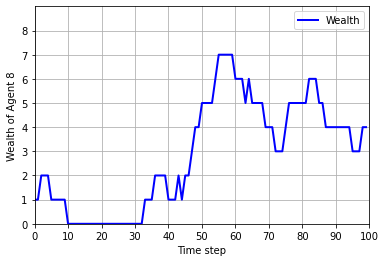
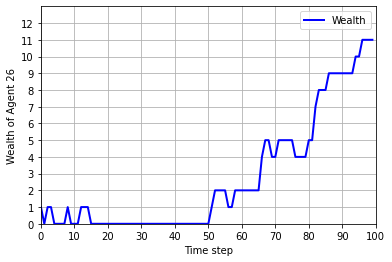
Update documentation

diff --git a/searchindex.js b/searchindex.js
@@ -1,1 +1,1 @@
-Search.setIndex({docnames:["docs/agent","docs/installation","docs/intro","docs/jupyter","docs/math","docs/ode","docs/pandas","docs/project","docs/python","docs/references"],envversion:{"sphinx.domains.c":2,"sphinx.domains.changeset":1,"sphinx.domains.citation":1,"sphinx.domains.cpp":3,"sphinx.domains.index":1,"sphinx.domains.javascript":2,"sphinx.domains.math":2,"sphinx.domains.python":2,"sphinx.domains.rst":2,"sphinx.domains.std":2,"sphinx.ext.intersphinx":1,"sphinxcontrib.bibtex":7,sphinx:56},filenames:["docs/agent.ipynb","docs/installation.md","docs/intro.md","docs/jupyter.ipynb","docs/math.md","docs/ode.ipynb","docs/pandas.ipynb","docs/project.md","docs/python.ipynb","docs/references.md"],objects:{},objnames:{},objtypes:{},terms:{"0000":0,"000000":6,"0001":5,"0002":8,"00233":9,"0630":[],"0882":[],"0996":8,"0d08f825e7a6":[],"100":[0,5,8],"1000":[5,8],"101":0,"102":[],"1021":9,"103":[],"1111":9,"1200":5,"130":5,"1415":8,"1442":[],"1539":[],"162":8,"1751":9,"1800":[],"1960":4,"1978":[],"1998":9,"1pigvvn":9,"200":5,"2000":5,"2002":[],"2003":[],"2004":[],"2005":[],"2006":[],"2009":9,"2010":9,"2011":9,"2013":9,"2014":[],"2015":[],"2016":9,"2017":[],"2018":[],"20210722":8,"20210802":8,"2022":2,"2034":[],"2035":[],"2036":[],"2037":[],"2038":[],"205":8,"2112":[],"2282":[],"2331":[],"2408":[],"2456":[],"2468":[],"2481259854":[],"2688":[],"2744":[],"2748":[],"2952":0,"3016":[],"3061":[],"3064":[],"3200":[],"3218":[],"3220":[],"3249":[],"3258":[],"3272":[],"3328":[],"3413":[],"3430":[],"3432":[],"3440":8,"350853":6,"3512":[],"3600":5,"3618":[],"3648":[],"365":5,"3740":[],"37aea01b0d9":[],"3808":[],"3816":[],"3840":[],"3848":[],"3864":[],"3880":[],"3909":[],"3944":[],"3971":[],"4024":[],"4032":[],"4088":[],"4136":[],"4179":[],"4200":[],"4221":[],"4224":[],"4296":[],"4312":[],"4384":[],"4408":[],"4416":[],"4488":[],"4504":[],"4520":[],"4552":[],"4576":[],"4616":[],"4620":[],"4632":[],"4664":[],"4728":0,"4744":[],"4760":[],"4792":[],"4810":[],"4824":[],"4864":[],"4869":[],"4872":[],"4896":[],"4968":[],"497":[],"4970":[],"4984":[],"500":5,"5000":[0,5,8],"500000":6,"5016":[],"503":[],"5056":[],"5059":[],"507":[],"5080":[],"512":8,"5128":[],"5160":[],"519":[],"5192":[],"5208":[],"5216":[],"522":[],"5272":[],"528":[],"530":[],"5304":[],"531":[],"532":[],"5320":[],"5336":[],"5378":[],"540":[],"5400":[],"5408":[],"5440":[],"5448":0,"545":[],"5536":[],"5632":[],"5656":0,"572":9,"5771":[],"5811":[],"584":9,"5d30a3a007ac":[],"600":5,"6120":[],"6481":[],"669":[],"679":[],"681":[],"6840":[],"688":[],"700":[],"7009":[],"711":[],"731":[],"746":[],"7588":[],"787":[],"78dfbf1da9e2":[],"7915":9,"800":5,"832":[],"8360":[],"843":[],"844":[],"845":[],"846":[],"847":[],"8569":[],"860":[],"8619":[],"8641":8,"8649":[],"871":[],"8981":[],"9119":[],"9219":[],"9328":[],"9778277b2191":[],"9909":[],"9922":[],"9949":[],"9999":8,"break":[],"case":[5,8],"class":[0,4,5,6],"default":[1,5,8],"export":6,"f\u00f6r":7,"final":[0,2,3,5],"float":8,"function":[0,3,5,6],"import":[0,2,3,4,5,6],"int":[0,8],"long":7,"new":[1,7,8],"return":[0,5,8],"short":[5,7,8],"static":5,"super":0,"true":[0,5,6,8],"try":7,"v\u00e4gledn":7,"var":[],"while":[5,7],Axes:8,For:[5,8],Not:8,ODE:[],ODEs:2,One:[2,8],The:[0,1,2,4,5,6,7,8],Their:7,There:[0,4,5,8],These:[0,8],With:5,__call__:[],__init__:[0,5,8],_allow_stdin:[],_sitebuiltin:[],a_list:8,abil:7,abm:[0,2,4],about:8,abov:[5,8],abs:[],academia:7,access:[2,8],accomplish:[8,9],accord:[5,7,8],accumul:[0,5,8],act:[0,4],action:[0,7],activ:[1,7],adapt:4,add:0,addit:[1,5,6,8],adopt:[2,8],advanc:4,affect:4,after:[0,8],agent:[2,4,7,8],agent_count:[],agent_datafram:[],agent_df:0,agent_idx:0,agent_report:0,agent_wealth:0,agentid:0,aich:[],air:5,alc_with_lowest_bp:8,alcohol:8,algorithm:8,alic:6,align:[4,5,8],alik:7,all:[0,2,4,7,8],allel:[],allow:[0,1,2,3,5,6],almost:8,alpha:[4,5],alreadi:[7,8],also:[0,3,4,5,6,8],altern:[5,8],alwai:8,amount:[7,8],anaconda:1,analysi:[0,6,8,9],analyt:8,andersen:[7,9],ani:[2,7],anlys:6,anoth:5,appeal:4,appear:[4,5],append:5,applic:[3,4],approach:[2,4,5],appropri:[],approx:5,approxim:[5,7],arang:3,area:[2,8],arg:5,arguabl:2,argument:[5,8],around:[0,4],arrai:5,arrang:8,artist:8,as13:[2,7,9],ascend:6,associ:[5,8],asterisk:1,attribut:0,author:[2,8],auto:8,automat:[6,8],autonom:0,autosc:8,avail:[2,3,5,8],averag:6,avoid:[],axes:5,axhlin:[3,6],axi:8,b_dict:8,b_tupl:[],back:4,bai98:[4,7,9],bailei:[4,7,9],bar:[6,8],barcontain:8,barh:8,barri:7,barstack:8,base:[1,2,4,7,8],basic:[2,4,5,8],bb1220:2,beatric:6,becom:[2,5],been:8,begin:[0,1,4,5],behav:[7,8],behavior:0,behaviour:4,belong:0,below:[0,3,8],benefit:[6,8],best:2,beta:[4,5],better:[2,5],between:[7,8],big:[0,5],bin:[0,8],biochem:[7,9],biolog:[4,5,7],biologi:[2,9],biologist:7,biotech:9,biotechnolog:[2,4,9],bit:1,blood:7,blueprint:8,bodi:7,boil:8,bone:7,book:[2,7,8],bool:8,bordel:9,born:[],both:[0,3,4],bottom:8,bp9701269:9,browser:[1,3],build:[0,4],built:[6,8],burn:[],bygg:9,c6h11oh:8,c6h5:8,c_dict:[],calcul:[0,8],call:[5,7],can:[0,1,3,4,5,6,7,8],cannot:8,canva:2,capit:8,catalyst:7,catalyz:7,categori:0,cb1020:2,cbn11:[4,7,9],ceasar:6,cell:[0,1,7,9],cell_cont:[],cellmat:0,cellular:7,celsiu:8,center:8,central:5,certain:[5,6],certainli:[],certifi:1,ch2oh:8,ch3:8,ch3oh:8,chanc:8,chang:[3,5],chapter:7,chart:8,check:[],checkpoint:3,chemic:[7,8],choh:8,choic:[0,2,5,8],choos:2,chosen:8,circ:5,circl:5,cite:[],clean:6,clear:[4,8],cleft:7,code:[1,2,8],coeffici:[0,4],coher:8,collect:[4,5],collector:0,color:[0,3,6,8],colorbar:[],column:[0,6,8],com:9,combin:3,come:[1,3,5],comma:6,command:[1,3],comment:3,common:[7,8],commun:[7,8],communict:[],compar:[3,8],comparison:[5,8],compart:7,competit:[],complet:[],complex:[4,7,8],compon:7,compos:4,compound:7,comput:[0,1,4,5,8],compute_gini:0,concern:[5,8],conda:1,conduct:[2,5],conjunct:8,connect:7,consid:5,consol:[],constant:5,construct:6,constructor:8,contain:[0,1,3,5,7,8],contrast:7,contribut:[2,8],conveni:[5,8],convent:3,convert:[0,3],coord_it:[],copi:3,core:9,cornerston:4,correspond:[5,6],cost:5,could:7,count:[6,8],counterpart:7,cours:[2,5,7],creat:[0,1,2,4,5,8],creation:8,cross:[0,7],csv:6,ctrl:3,cumul:8,current:0,cursor:3,cvijov:[4,7,9],cyclohexanol:8,d2u_dx2:5,dai:5,damp:5,dash:3,data1:8,data2:8,data:[],datacollect:0,datacollector:0,datafram:0,datapoint:8,dataset:8,date:[2,4],dator:9,david:6,death:5,decis:[2,4],decreas:5,deepen:2,def:[0,5,8],defin:[0,5,8],definit:[],degre:8,degress:[],delivar:2,delta:[4,5],denot:5,densiti:8,depend:[1,3],depict:5,deriv:[0,3,5],describ:[4,5,6,8],descript:[2,8],design:7,detail:[3,8],determin:[0,7],develop:[7,8],deviat:8,diagon:0,dict:[],dictionari:8,dictonari:[6,8],did:5,die:[],diff:8,differ:[0,2,7,8],differenti:[2,4],difficult:4,diffus:[5,7],dimens:8,dimension:[5,8],direct:8,disciplinari:7,discret:5,discuss:2,diseas:[4,7],displai:[6,8],disposit:7,distinguish:7,distribut:[0,8],divid:[5,8],doan:8,doc:[1,2],document:[2,3],doe:[],doi:9,doing:[3,5],dot:8,down:[],draw:8,drawn:8,drive:2,dropbox:2,dtype:[6,8],due:5,dydt:5,dynam:[4,5],each:[0,2,8],earli:4,eat:7,ecosystem:7,edg:8,edit:[2,3,9],effect:8,effici:8,either:8,element:[3,6,7,8],elementari:3,els:7,empti:[0,8],enabl:[1,5,7,8],encapsul:8,end:[2,4,5,8],engin:[2,5,6,7,8,9],enter:[0,1,3],entiti:0,enumer:[0,8],env:1,environ:[1,4,7],enzym:7,eoferror:[],epidemiolog:4,equal:[4,5,6,8],equat:[2,3,4],equip:8,erl:9,error:5,etc:[3,6,8],ethanol:8,euler:[],euler_step:5,eva:9,even:8,everi:[0,2,5,7],everyth:[7,8],evid:5,evolut:5,exact:5,exam:6,examin:6,exampl:[2,5,8],excel:[6,7],except:8,exchang:7,excitatori:7,exclud:8,execut:[1,8],exemplifi:5,exhaust:2,exlibrisgroup:9,exp:[5,8],expect:[7,8],experi:[2,8],explain:[3,4],expos:0,extens:[3,8],extern:[],extract:0,factor:8,factori:9,fals:[0,8],famili:5,famou:7,far:[2,3],farg:5,fast:8,faster:[7,8],favorit:8,feel:[7,8],few:1,field:4,fig:[3,5],fignam:8,figsiz:[3,5],figur:[3,5],file:[3,6,8],fill:[2,8],filter:8,final_wealth:[],final_wealth_df:0,find:[0,5,7],fire:[],first:[0,5,6,7,8],fix:8,flexibl:8,float64:6,focal:2,focu:[2,4],folder:2,follow:[1,3,7,8],food:[],forest:4,forg:1,form:[2,3,7,8],format:[2,3,6,8],former:4,formula:8,fourth:5,frac:[0,4,5,8],fraction:8,frame:5,frame_numb:5,framework:0,free:[7,8],frequenc:[],friction:5,from:[0,1,2,3,4,5,7,8],frontend:[],frustrat:[],funcanim:5,further:[3,4],futur:[2,7,9],gamma:[4,5],gaussian:8,gca:[0,3,5,6,8],gener:[0,2,5,7,8],genrer:7,geometr:8,geometri:8,get:[1,3,5,8],get_agent_vars_datafram:0,get_cell_list_cont:0,get_model_vars_datafram:0,get_neighborhood:0,getlin:[],gini:0,github:9,give:[0,8],give_monei:0,given:[2,5,8],gledn:9,global:0,good:[2,5,7,8],googl:2,got:[],govern:0,gradual:5,granular:4,great:8,greater:[5,8],grid:[0,5,8],ground:7,group:[0,2,7],grow:[],growth:5,guid:7,guidelin:2,half:8,handl:[0,6],harmon:5,has:[0,5,6,7,8],have:[2,3,7,8],head:[0,6],heat:[],heattransferwal:5,height:[0,8],hello:[],help:[],here:[],herod:[2,7,9],heurist:4,hierarch:2,high:8,higher:5,highli:8,hist2d:8,hist:[0,8],histogram:8,histogram_bin_edg:8,histtyp:8,hiv:7,hold:0,horizont:8,host:9,hour:5,howev:[2,4,5,8],html:1,http:[1,9],human:3,idea:8,ident:8,identifi:5,idxmax:0,ignor:8,iii:2,illustr:[4,5],imagin:8,imat:[],implement:[0,2,3,5,8],imshow:[],includ:[0,1,3,7,8],include_cent:0,increas:[0,4,5],increment:8,independ:8,index:8,indic:[0,1,4],indispens:8,individu:[0,2,4,8],industri:[4,7,9],infect:7,infecti:4,inform:7,ingredi:[],inhibitori:7,init:[],initi:5,ink:7,input:8,insid:[],inspir:[4,7],instal:[],instanc:4,instanti:0,instead:8,int64:[],integ:[0,8],integr:[5,8],intel:8,interact:[0,1,4,5,7],interest:7,interfac:[0,3],intermedi:5,internet:[],interneuron:7,interpol:[],interpret:8,interv:[3,5],intro:[],introduc:[3,5,7,8],introduct:[4,7,8,9],intuit:[2,8],invalid:[],invest:7,invit:[5,8],involv:5,ipykernel:[],ipykernel_33146:[],ipykernel_33176:[],ipykernel_33193:[],ipykernel_33209:[],ipykernel_33225:[],ipykernel_33233:[],ipynb:3,ipython:[],isol:8,isopropanol:8,item:8,its:[0,3,5,7,8],itself:7,jake:[8,9],jakevdp:9,jame:9,javascript:0,jen:9,json:3,jupyt:1,jupyterlab:1,just:[],k_1:5,k_2:5,k_3:5,k_4:5,keep:2,kei:[3,4,5,8],kept:8,kernel:8,kernelbas:[],keyboardinterrupt:[],keyword:8,kind:6,kinet:7,knowhow:7,knowledg:5,known:5,kth:[2,9],kurslitteratur:9,kutta:[],kvalitet:9,kwarg:8,kwd:[],label:[5,8],lambda:5,land:[],landscap:0,languag:2,larg:[1,7,8],last:[0,8],latent:7,latest:1,lattic:[],launch:0,ldot:0,lead:7,leader:2,leadership:2,learn:[4,7],least:2,leav:3,left:8,legend:[5,8],len:[0,8],length:8,leq:[0,5],less:[5,8],let:[0,5,8],level:[0,7],lib:[],librari:8,life:7,lighten:[],lightgrei:6,like:[6,7,8],limit:[2,4,5,7],limt:0,line2d:5,line:[1,3,5,6,8],linear:5,lineplot:8,linewidth:[3,8],link:3,linspac:5,linux:[1,8],list:[0,1,2,3,6,8],live:7,llimit:6,load:2,locat:8,log:[2,8],logic:8,loop:8,lotka:[4,5],lotka_volterra:5,lower:8,lowest:8,lowest_bp:8,maco:[1,8],macroscop:4,made:[2,4,5,8],magnitud:8,mai:[3,4,5,7,8],main:4,make:[2,3,4,5,7],makinng:4,mammal:7,manag:[0,1],mani:7,manipul:8,manner:3,mapl:[2,9],marija:9,mark:[1,2],markdown:3,mask:8,match:8,materi:[2,7],math:8,mathbf:5,mathemat:[2,3,5,7,8,9],matlab:[2,9],matmul:8,matplotlib:[0,1,3,5,6,8],matric:8,matrix:8,matur:[],max:[0,6,8],max_wealth:0,maximum:0,mean:[2,5,6,8],mechan:5,mediat:7,medium:5,meet:2,member:[2,4,5],membership:8,membran:7,mena:[],mentor:2,merg:[3,6],mesa:[1,8],metabol:7,metal:7,methanol:8,method:[0,2,3,6,8],metric:0,microbi:9,microscop:4,microsoft:[2,6],mid:8,midterm:[],min:[6,8],miniconda3:[],miniconda:1,minim:1,minor:2,minut:2,mixtur:7,mkl:8,mode:3,model:[2,7,8,9],model_datafram:[],model_df:0,model_report:0,moder:7,modern:4,modeul:[],modifi:1,modul:[0,3,6],molecul:7,moneyag:0,moneymodel:0,moor:0,more:[3,4,5,8],most:[2,4,5,6,8],move:[0,9],move_ag:0,movement:7,much:7,mulitpl:8,multi:[2,8],multigrid:0,multipl:[0,1,8],multistep:7,multitud:[],must:8,myenv:1,name:[1,2,4,5,6,8],nameerror:[],natur:[4,5,8],nbin:8,ndarrai:8,nearest:[],need:[2,5,7,8],neighbor:[],neuron:7,neurotransmitt:7,never:8,new_posit:0,newli:[],newtonian:5,nielsen:9,non:[0,8],none:8,nonliv:7,nontrivi:5,nonzero:0,normal:[7,8],note:8,notebook:[1,5,8],now:1,num:5,num_ag:0,number:[0,1,4,8],number_el:5,numer:[4,6,8],numpi:[1,3,5,8],object:[5,6],observ:7,obtain:[2,5],obviou:4,obvious:8,occupi:7,occur:[0,7],och:9,odeint:5,offer:8,offic:2,omnipres:7,onc:7,one:[0,1,2,3,5,8],one_agent_wealth:[],one_agent_wealth_df:0,onedr:2,ones:[5,8],onli:[1,5,7,8],onlinelibrari:[],open:[1,8],openmp:8,oper:[],opportun:[5,9],opt:[],optim:8,option:8,orbit:5,order:[0,5,8],ordinari:2,org:9,organ:[0,3,7],orient:5,oscil:5,other:[0,1,3,7,8],our:[0,5,7],out:[7,8],outcom:0,outlier:8,output:[],outsid:2,over:[5,8],overal:[0,7],overemphas:8,overleaf:2,ovolut:[],packag:1,page:2,panda:[0,8],paragraph:3,paramet:[0,4,5,8],parametr:5,parasit:7,part:2,partial:5,particip:2,particl:[5,7],particular:3,pass:[5,6,8],past:[3,9],patch:8,patches0:8,patches1:8,path_to_fil:6,pdf:[2,8],peer:2,per:[2,8],perform:[5,6,8],period:[5,7],permalink:9,permeas:7,person:2,phase:5,phenomena:[2,4,7],phenomenolog:4,phenylmethanol:8,pip:1,place_ag:0,plai:5,platform:8,plot:3,plot_upd:5,plt:[0,3,5,6,8],plu:8,png:8,point:[2,5,6,8],polygon:8,popul:[0,4,5],portabl:2,pos:0,posit:[0,3,5],possibl:[7,8],possible_step:0,postsynapt:7,potenti:[7,8],power:[4,6],powershel:1,ppm:5,practic:[2,5,8],predat:[4,5],predatorpreymodel:5,predeifin:8,predict:4,prei:[4,5],preliminari:2,present:[2,5,8],press:3,presynapt:7,primo:9,principl:2,print:[0,6,8],probabl:8,problem:[7,8],process:[4,7],processor:8,product:[7,8],prog:9,program:[2,3,5],project:[2,8],projektarbet:[7,9],projektledn:9,promin:5,promot:4,prompt:1,propag:5,properti:[5,8],propog:5,proport:5,protein:7,prototyp:8,provid:[3,4,5,7,8],pseudo:8,py3dmol:[],pydoc:[],pyplot:[0,3,5,6,8],python3:[],python:[0,1,2,3,5,9],qquad:5,quad:5,question:7,quicker:7,quit:5,r_0:4,rais:8,rand:8,randint:[],random:[0,7,8],randomactiv:0,randomli:[0,2],randrang:0,rang:[0,2,5,8],rate:[5,7],rather:8,ration:2,raw:8,raw_input:[],reach:7,reaction:7,read:[6,8],read_excel:6,readabl:[3,8],readi:1,readili:[3,8],readthrough:7,real:7,recent:4,recommend:[1,8],record:[0,2,4],reduc:5,refer:[1,2,4,5,7,8],reflect:2,regener:7,region:[],regul:7,regular:0,reilli:9,rel:8,relat:[5,7],releas:7,relev:8,remain:[0,8],rememb:3,repeat:[],replac:5,report:2,repositori:1,repres:[4,5,8],reproduc:8,reproduct:4,request:[],requir:[0,5,7,8],resent:[],reshap:[6,8],respect:[0,4,5],result:[3,5,6,8],retain:7,retriev:1,reveal:[5,8],revers:8,review:[2,4,7],rice:8,rich:2,right:8,righthand:8,risk:4,rk4:5,role:[2,5],ronald:9,routin:8,row:0,rule:[4,7],run:[1,3,5],rung:[],rwidth:8,sai:6,same:[0,8],satur:7,save:[3,5,8],savefig:8,scalar:[5,8],scale:[4,8],scenario:[],schedul:0,scheme:5,schwenck:[7,9],scienc:[5,8],scientif:1,scipi:[1,5,8],scott:8,script:8,search:8,sec:5,second:[2,5,8,9],section:[0,3],see:[2,4,8],seed:8,seemingli:4,seen:5,select:[2,6,7],self:[0,2,5,8],semant:8,sens:[2,7],separ:[2,7,8],separatp:6,seper:3,sequenc:[0,8],sergio:9,seri:0,serv:[5,7],server:0,set:[2,4,5,8],set_data:5,set_text:5,set_ydata:[],setp:[0,3,5,6,8],sever:[2,6,8],sh09:[2,7,9],shall:5,shape:8,share:[2,8],sheet1:6,sheet:[2,6],sheet_nam:6,shift:[3,8],shonkwil:[2,7,9],shorter:8,should:[1,2,5,8],show:[0,3,5,6,8],side:8,sight:5,sigma:8,signal:7,significantli:8,similar:7,simpl:8,simplest:7,simul:4,sin:[3,5],singl:[0,4,8],sit:7,site:[],size:[],skill:[2,7],skillset:7,slide:2,slower:8,slowli:7,small:1,smaller:[5,8],snd:[],soft:7,softwar:[5,8],solid:5,solubl:7,solut:[2,8],solv:5,some:5,someon:8,somethign:[],sort:[0,6],sort_valu:6,sourc:[1,7,8],space:[0,5,7,8],spam:[],span:7,speci:[],specif:[0,7,8],specifi:[4,8],split:3,spread:4,spreadsheet:[],spring:5,springer:9,sqrt:8,stabil:5,stabl:[5,8],stack:8,standard:[6,8],start:[0,1,3,8],stastic:6,state:[5,8],statement:[0,1,8],std:[6,8],stdin:[],stdinnotimplementederror:[],steadi:[],step:[0,5,8],step_idx:0,stepfil:8,stochast:4,stone:8,store:[5,8],str:8,straighforward:5,straightforward:5,strategi:8,strength:4,strike:[],string:8,strongli:8,struck:[],structur:0,student:[2,6,7,9],studentlitteratur:9,studi:[5,7],sturg:8,substrat:7,suggest:3,suit:2,sum:[0,7,8],sum_:0,summar:4,summari:[],summer:[],superior:5,suppli:[],support:[1,8],symbol:[],synapt:7,syntax:8,syntaxerror:[],sys:[],system:[0,1,4,5,7],t_0:5,t_insid:5,t_outsid:5,tab:3,tail:0,take:[2,5,7,8],target:2,task:8,team:[2,8],technic:2,teknik:9,temperatur:[5,7],tempt:8,tend:7,term:[5,8],termin:1,test:8,text:[5,8],than:[5,7,8],thei:[1,5,7],them:[0,2,7],themselv:0,thereaft:5,therefor:2,thermal:5,thi:[0,1,2,3,5,6,7],thick:5,think:7,third:5,those:[4,6,7],thought:6,thread:8,three:[0,2,3,7],thu:[2,5,7],time:[0,5,7,8],time_text:5,tissu:7,titl:[0,2,3,5,7,8],tn_cdi_springer_books_10_1007_978_0_387_70984_0:9,togeth:[5,8],tool:[0,2,6,8],top:8,topic:7,topolog:4,total:[0,8],tour:[8,9],toward:[2,8,9],traceback:[],track:[4,7],tradit:8,train:[2,7],transform:[5,7],transmembran:7,transmiss:7,transport:7,transpos:8,treat:[7,8],treatment:7,tree:4,triangl:8,trigger:7,trivial:5,tupl:8,turn:[3,5],turnov:7,tutori:[],twinx:5,two:[0,2,4,5,8],tyical:8,type:[3,7],typic:[1,4,5,7,8],uncatalyz:7,under:8,underli:[6,8],understand:[0,2],unequ:8,unfil:8,uniqu:3,unique_id:0,unit:0,unless:8,updat:5,upload:2,upon:2,upper:8,uptak:7,url:9,use:[0,2,3,4,5,7,8],used:[0,2,5,7,8],useful:1,user:[2,5,8],uses:8,using:[0,2,3,6,8],usual:[5,8],util:[],vai:5,valu:[0,5,6,8],valuabl:7,van16:[8,9],vanderpla:[8,9],vanderplas2016:[],variabl:5,variat:5,variou:[4,7],vast:8,vector:8,veloc:5,veloxchem:[],veri:[2,5,7],versatil:2,version:[1,2],vertic:8,via:[3,8],viru:7,visual:[0,8],vlxenv:[],volterra:[4,5],w3school:8,wai:[6,8],walk:0,water:7,wave:[],weak:4,wealth:0,web:[1,3,8],websit:1,weight:8,welcom:2,well:[2,7],what:0,when:[5,8],where:[0,4,5,8],whether:7,which:[0,1,2,4,5,7,8],whirlwind:[8,9],whirlwindtourofpython:9,whose:[],wide:[2,5],widespread:2,width:[0,8],wilei:[],window:[1,8],wise:[],without:[],word:[0,8],work:[1,2,4,5,6,8],world:[],would:[6,8],wrangl:6,write:5,written:[1,3,4,5,7,8],www:9,x_i:0,xlabel:[0,3,5,8],xlim:[0,3,5,8],xls:6,xqxvp53d2831kfb6dsx_zg5w0000gp:[],xtick:0,xticklabel:6,y0_l:5,y_1:5,y_2:5,year:2,yet:2,yield:8,ylabel:[0,3,5,6,8],ylim:[0,3,5,8],you:[1,2,3,6,7,8],your:[0,1,2,3,6,7,8],ytick:0,zero:[5,8],zlib:1},titles:["Agent-based modeling","Software installation","Introduction","Jupyter notebook","Mathematical modeling","Differential equations","Pandas","Project work","Python for this course","References"],titleterms:{"400px":[],"class":8,"function":8,"import":8,ODE:5,ODEs:5,agent:0,align:[],anaconda:[],analys:6,analysi:5,anim:5,arrai:8,auto:3,autocomplet:[],base:0,bonu:5,book:[],build:[],cell:3,center:[],code:3,collect:0,commun:2,complet:3,condit:8,content:2,cours:8,creat:6,data:[0,6,8],datafram:6,deliver:2,dictionari:6,differ:5,differenti:5,document:8,edit:[],enabl:[],environ:[],equaiton:[],equat:5,essenti:3,euler:5,exampl:3,explicit:5,fdm:5,fig:[],figur:8,finit:5,form:5,from:6,gener:[],good:[],heat:5,help:8,implicit:5,instal:1,interact:[],introduct:2,iter:8,jupyt:3,keyboard:3,kutta:5,librari:5,line:[],manipul:6,markdown:[],materi:5,mathemat:4,mesa:0,method:5,mode:[],model:[0,4,5],modul:8,motiv:8,name:[],necess:8,normal:[],notebook:3,numer:5,object:8,oper:8,ordinari:5,organ:2,orient:8,overview:[],panda:6,plot:[0,5,6,8],practic:[],program:8,project:7,propos:7,python:[6,8],refer:9,result:0,run:0,rung:5,set:[],shortcut:3,simul:0,softwar:1,solut:5,solver:5,some:8,specif:[],spreadsheet:6,stabil:[],store:0,structur:[],system:[],text:3,thi:8,through:5,tip:3,transfer:5,type:8,unnecess:[],view:[],wall:5,well:[],width:[],work:7}})
+Search.setIndex({docnames:["docs/agent","docs/installation","docs/intro","docs/jupyter","docs/math","docs/ode","docs/pandas","docs/project","docs/python","docs/references"],envversion:{"sphinx.domains.c":2,"sphinx.domains.changeset":1,"sphinx.domains.citation":1,"sphinx.domains.cpp":3,"sphinx.domains.index":1,"sphinx.domains.javascript":2,"sphinx.domains.math":2,"sphinx.domains.python":2,"sphinx.domains.rst":2,"sphinx.domains.std":2,"sphinx.ext.intersphinx":1,"sphinxcontrib.bibtex":7,sphinx:56},filenames:["docs/agent.ipynb","docs/installation.md","docs/intro.md","docs/jupyter.ipynb","docs/math.md","docs/ode.ipynb","docs/pandas.ipynb","docs/project.md","docs/python.ipynb","docs/references.md"],objects:{},objnames:{},objtypes:{},terms:{"0000":0,"000000":6,"0001":5,"0002":8,"00233":9,"0630":[],"0882":[],"0996":8,"0d08f825e7a6":[],"100":[0,5,8],"1000":[5,8],"101":0,"102":[],"1021":9,"103":[],"1111":9,"1200":5,"130":5,"1415":8,"1442":[],"1539":[],"162":8,"1751":9,"1800":[],"1960":4,"1978":[],"1998":9,"1pigvvn":9,"200":5,"2000":5,"2002":[],"2003":[],"2004":[],"2005":[],"2006":[],"2009":9,"2010":9,"2011":9,"2013":9,"2014":[],"2015":[],"2016":9,"2017":[],"2018":[],"20210722":8,"20210802":8,"2022":2,"2034":[],"2035":[],"2036":[],"2037":[],"2038":[],"205":8,"2112":[],"2282":[],"2331":[],"2408":[],"2456":[],"2468":[],"2481259854":[],"2688":[],"2744":[],"2748":[],"2824":0,"2952":[],"3016":[],"3061":[],"3064":[],"3200":[],"3218":[],"3220":[],"3249":[],"3258":[],"3272":[],"3328":[],"3413":[],"3430":[],"3432":[],"3440":[],"350853":6,"3512":[],"3600":5,"3618":[],"3648":[],"365":5,"3740":[],"37aea01b0d9":[],"3808":[],"3816":[],"3840":[],"3848":[],"3864":[],"3880":[],"3909":[],"3944":[],"3971":[],"4024":[],"4032":[],"4088":[],"4136":[],"4179":[],"4200":[],"4221":[],"4224":0,"4296":[],"4312":[],"4384":[],"4408":[],"4416":[],"4488":[],"4504":[],"4520":[],"4552":[],"4576":[],"4616":[],"4620":[],"4632":[],"4664":[],"4728":[],"4744":[],"4760":[],"4792":[],"4810":[],"4824":[],"4864":[],"4869":[],"4872":[],"4896":[],"4928":0,"4968":[],"497":[],"4970":[],"4984":[],"500":5,"5000":[0,5,8],"500000":6,"5016":[],"503":[],"505":8,"5056":[],"5059":[],"507":[],"5080":[],"512":[],"5128":[],"5160":[],"519":[],"5192":[],"5208":[],"5216":[],"522":[],"5272":[],"528":[],"530":[],"5304":[],"531":[],"532":[],"5320":[],"5336":[],"5378":[],"540":[],"5400":[],"5408":[],"5440":[],"5448":[],"545":[],"5512":0,"5536":[],"5632":[],"5656":[],"572":9,"5771":[],"5811":[],"584":9,"5d30a3a007ac":[],"600":5,"6120":[],"6481":[],"669":[],"679":[],"681":[],"6840":[],"688":[],"700":[],"7009":[],"711":[],"7149":8,"731":[],"746":[],"7588":[],"787":[],"78dfbf1da9e2":[],"7915":9,"800":5,"8129":8,"832":[],"8360":[],"843":[],"844":[],"845":[],"846":[],"847":[],"8569":[],"860":[],"8619":[],"8641":[],"8649":[],"871":[],"8981":[],"9119":[],"9219":[],"9328":[],"9778277b2191":[],"9909":[],"9922":[],"9949":[],"9999":8,"break":[],"case":[5,8],"class":[0,4,5,6],"default":[1,5,8],"export":6,"f\u00f6r":7,"final":[0,2,3,5],"float":8,"function":[0,3,5,6],"import":[0,2,3,4,5,6],"int":[0,8],"long":7,"new":[1,7,8],"return":[0,5,8],"short":[5,7,8],"static":5,"super":0,"true":[0,5,6,8],"try":7,"v\u00e4gledn":7,"var":[],"while":[5,7],Axes:8,For:[5,8],Not:8,ODE:[],ODEs:2,One:[2,8],The:[0,1,2,4,5,6,7,8],Their:7,There:[0,4,5,8],These:[0,8],With:5,__call__:[],__init__:[0,5,8],_allow_stdin:[],_sitebuiltin:[],a_list:8,abil:7,abm:[0,2,4],about:8,abov:[5,8],abs:[],academia:7,access:[2,8],accomplish:[8,9],accord:[5,7,8],accumul:[0,5,8],act:[0,4],action:[0,7],activ:[1,7],adapt:4,add:0,addit:[1,5,6,8],adopt:[2,8],advanc:4,affect:4,after:[0,8],agent:[2,4,7,8],agent_count:[],agent_datafram:[],agent_df:0,agent_idx:0,agent_report:0,agent_wealth:0,agentid:0,aich:[],air:5,alc_with_lowest_bp:8,alcohol:8,algorithm:8,alic:6,align:[4,5,8],alik:7,all:[0,2,4,7,8],allel:[],allow:[0,1,2,3,5,6],almost:8,alpha:[4,5],alreadi:[7,8],also:[0,3,4,5,6,8],altern:[5,8],alwai:8,amount:[7,8],anaconda:1,analysi:[0,6,8,9],analyt:8,andersen:[7,9],ani:[2,7],anlys:6,anoth:5,appeal:4,appear:[4,5],append:5,applic:[3,4],approach:[2,4,5],appropri:[],approx:5,approxim:[5,7],arang:3,area:[2,8],arg:5,arguabl:2,argument:[5,8],around:[0,4],arrai:5,arrang:8,artist:8,as13:[2,7,9],ascend:6,associ:[5,8],asterisk:1,attribut:0,author:[2,8],auto:8,automat:[6,8],autonom:0,autosc:8,avail:[2,3,5,8],averag:6,avoid:[],axes:5,axhlin:[3,6],axi:8,b_dict:8,b_tupl:[],back:4,bai98:[4,7,9],bailei:[4,7,9],bar:[6,8],barcontain:8,barh:8,barri:7,barstack:8,base:[1,2,4,7,8],basic:[2,4,5,8],bb1220:2,beatric:6,becom:[2,5],been:8,begin:[0,1,4,5],behav:[7,8],behavior:0,behaviour:4,belong:0,below:[0,3,8],benefit:[6,8],best:2,beta:[4,5],better:[2,5],between:[7,8],big:[0,5],bin:[0,8],biochem:[7,9],biolog:[4,5,7],biologi:[2,9],biologist:7,biotech:9,biotechnolog:[2,4,9],bit:1,blood:7,blueprint:8,bodi:7,boil:8,bone:7,book:[2,7,8],bool:8,bordel:9,born:[],both:[0,3,4],bottom:8,bp9701269:9,browser:[1,3],build:[0,4],built:[6,8],burn:[],bygg:9,c6h11oh:8,c6h5:8,c_dict:[],calcul:[0,8],call:[5,7],can:[0,1,3,4,5,6,7,8],cannot:8,canva:2,capit:8,catalyst:7,catalyz:7,categori:0,cb1020:2,cbn11:[4,7,9],ceasar:6,cell:[0,1,7,9],cell_cont:[],cellmat:0,cellular:7,celsiu:8,center:8,central:5,certain:[5,6],certainli:[],certifi:1,ch2oh:8,ch3:8,ch3oh:8,chanc:8,chang:[3,5],chapter:7,chart:8,check:[],checkpoint:3,chemic:[7,8],choh:8,choic:[0,2,5,8],choos:2,chosen:8,circ:5,circl:5,cite:[],clean:6,clear:[4,8],cleft:7,code:[1,2,8],coeffici:[0,4],coher:8,collect:[4,5],collector:0,color:[0,3,6,8],colorbar:[],column:[0,6,8],com:9,combin:3,come:[1,3,5],comma:6,command:[1,3],comment:3,common:[7,8],commun:[7,8],communict:[],compar:[3,8],comparison:[5,8],compart:7,competit:[],complet:[],complex:[4,7,8],compon:7,compos:4,compound:7,comput:[0,1,4,5,8],compute_gini:0,concern:[5,8],conda:1,conduct:[2,5],conjunct:8,connect:7,consid:5,consol:[],constant:5,construct:6,constructor:8,contain:[0,1,3,5,7,8],contrast:7,contribut:[2,8],conveni:[5,8],convent:3,convert:[0,3],coord_it:[],copi:3,core:9,cornerston:4,correspond:[5,6],cost:5,could:7,count:[6,8],counterpart:7,cours:[2,5,7],creat:[0,1,2,4,5,8],creation:8,cross:[0,7],csv:6,ctrl:3,cumul:8,current:0,cursor:3,cvijov:[4,7,9],cyclohexanol:8,d2u_dx2:5,dai:5,damp:5,dash:3,data1:8,data2:8,data:[],datacollect:0,datacollector:0,datafram:0,datapoint:8,dataset:8,date:[2,4],dator:9,david:6,death:5,decis:[2,4],decreas:5,deepen:2,def:[0,5,8],defin:[0,5,8],definit:[],degre:8,degress:[],delivar:2,delta:[4,5],denot:5,densiti:8,depend:[1,3],depict:5,deriv:[0,3,5],describ:[4,5,6,8],descript:[2,8],design:7,detail:[3,8],determin:[0,7],develop:[7,8],deviat:8,diagon:0,dict:[],dictionari:8,dictonari:[6,8],did:5,die:[],diff:8,differ:[0,2,7,8],differenti:[2,4],difficult:4,diffus:[5,7],dimens:8,dimension:[5,8],direct:8,disciplinari:7,discret:5,discuss:2,diseas:[4,7],displai:[6,8],disposit:7,distinguish:7,distribut:[0,8],divid:[5,8],doan:8,doc:[1,2],document:[2,3],doe:[],doi:9,doing:[3,5],dot:8,down:[],draw:8,drawn:8,drive:2,dropbox:2,dtype:[6,8],due:5,dydt:5,dynam:[4,5],each:[0,2,8],earli:4,eat:7,ecosystem:7,edg:8,edit:[2,3,9],effect:8,effici:8,either:8,element:[3,6,7,8],elementari:3,els:7,empti:[0,8],enabl:[1,5,7,8],encapsul:8,end:[2,4,5,8],engin:[2,5,6,7,8,9],enter:[0,1,3],entiti:0,enumer:[0,8],env:1,environ:[1,4,7],enzym:7,eoferror:[],epidemiolog:4,equal:[4,5,6,8],equat:[2,3,4],equip:8,erl:9,error:5,etc:[3,6,8],ethanol:8,euler:[],euler_step:5,eva:9,even:8,everi:[0,2,5,7],everyth:[7,8],evid:5,evolut:5,exact:5,exam:6,examin:6,exampl:[2,5,8],excel:[6,7],except:8,exchang:7,excitatori:7,exclud:8,execut:[1,8],exemplifi:5,exhaust:2,exlibrisgroup:9,exp:[5,8],expect:[7,8],experi:[2,8],explain:[3,4],expos:0,extens:[3,8],extern:[],extract:0,factor:8,factori:9,fals:[0,8],famili:5,famou:7,far:[2,3],farg:5,fast:8,faster:[7,8],favorit:8,feel:[7,8],few:1,field:4,fig:[3,5],fignam:8,figsiz:[3,5],figur:[3,5],file:[3,6,8],fill:[2,8],filter:8,final_wealth:[],final_wealth_df:0,find:[0,5,7],fire:[],first:[0,5,6,7,8],fix:8,flexibl:8,float64:6,focal:2,focu:[2,4],folder:2,follow:[1,3,7,8],food:[],forest:4,forg:1,form:[2,3,7,8],format:[2,3,6,8],former:4,formula:8,fourth:5,frac:[0,4,5,8],fraction:8,frame:5,frame_numb:5,framework:0,free:[7,8],frequenc:[],friction:5,from:[0,1,2,3,4,5,7,8],frontend:[],frustrat:[],funcanim:5,further:[3,4],futur:[2,7,9],gamma:[4,5],gaussian:8,gca:[0,3,5,6,8],gener:[0,2,5,7,8],genrer:7,geometr:8,geometri:8,get:[1,3,5,8],get_agent_vars_datafram:0,get_cell_list_cont:0,get_model_vars_datafram:0,get_neighborhood:0,getlin:[],gini:0,github:9,give:[0,8],give_monei:0,given:[2,5,8],gledn:9,global:0,good:[2,5,7,8],googl:2,got:[],govern:0,gradual:5,granular:4,great:8,greater:[5,8],grid:[0,5,8],ground:7,group:[0,2,7],grow:[],growth:5,guid:7,guidelin:2,half:8,handl:[0,6],harmon:5,has:[0,5,6,7,8],have:[2,3,7,8],head:[0,6],heat:[],heattransferwal:5,height:[0,8],hello:[],help:[],here:[],herod:[2,7,9],heurist:4,hierarch:2,high:8,higher:5,highli:8,hist2d:8,hist:[0,8],histogram:8,histogram_bin_edg:8,histtyp:8,hiv:7,hold:0,horizont:8,host:9,hour:5,howev:[2,4,5,8],html:1,http:[1,9],human:3,idea:8,ident:8,identifi:5,idxmax:0,ignor:8,iii:2,illustr:[4,5],imagin:8,imat:[],implement:[0,2,3,5,8],imshow:[],includ:[0,1,3,7,8],include_cent:0,increas:[0,4,5],increment:8,independ:8,index:8,indic:[0,1,4],indispens:8,individu:[0,2,4,8],industri:[4,7,9],infect:7,infecti:4,inform:7,ingredi:[],inhibitori:7,init:[],initi:5,ink:7,input:8,insid:[],inspir:[4,7],instal:[],instanc:4,instanti:0,instead:8,int64:[],integ:[0,8],integr:[5,8],intel:8,interact:[0,1,4,5,7],interest:7,interfac:[0,3],intermedi:5,internet:[],interneuron:7,interpol:[],interpret:8,interv:[3,5],intro:[],introduc:[3,5,7,8],introduct:[4,7,8,9],intuit:[2,8],invalid:[],invest:7,invit:[5,8],involv:5,ipykernel:[],ipykernel_33146:[],ipykernel_33176:[],ipykernel_33193:[],ipykernel_33209:[],ipykernel_33225:[],ipykernel_33233:[],ipynb:3,ipython:[],isol:8,isopropanol:8,item:8,its:[0,3,5,7,8],itself:7,jake:[8,9],jakevdp:9,jame:9,javascript:0,jen:9,json:3,jupyt:1,jupyterlab:1,just:[],k_1:5,k_2:5,k_3:5,k_4:5,keep:2,kei:[3,4,5,8],kept:8,kernel:8,kernelbas:[],keyboardinterrupt:[],keyword:8,kind:6,kinet:7,knowhow:7,knowledg:5,known:5,kth:[2,9],kurslitteratur:9,kutta:[],kvalitet:9,kwarg:8,kwd:[],label:[5,8],lambda:5,land:[],landscap:0,languag:2,larg:[1,7,8],last:[0,8],latent:7,latest:1,lattic:[],launch:0,ldot:0,lead:7,leader:2,leadership:2,learn:[4,7],least:2,leav:3,left:8,legend:[5,8],len:[0,8],length:8,leq:[0,5],less:[5,8],let:[0,5,8],level:[0,7],lib:[],librari:8,life:7,lighten:[],lightgrei:6,like:[6,7,8],limit:[2,4,5,7],limt:0,line2d:5,line:[1,3,5,6,8],linear:5,lineplot:8,linewidth:[3,8],link:3,linspac:5,linux:[1,8],list:[0,1,2,3,6,8],live:7,llimit:6,load:2,locat:8,log:[2,8],logic:8,loop:8,lotka:[4,5],lotka_volterra:5,lower:8,lowest:8,lowest_bp:8,maco:[1,8],macroscop:4,made:[2,4,5,8],magnitud:8,mai:[3,4,5,7,8],main:4,make:[2,3,4,5,7],makinng:4,mammal:7,manag:[0,1],mani:7,manipul:8,manner:3,mapl:[2,9],marija:9,mark:[1,2],markdown:3,mask:8,match:8,materi:[2,7],math:8,mathbf:5,mathemat:[2,3,5,7,8,9],matlab:[2,9],matmul:8,matplotlib:[0,1,3,5,6,8],matric:8,matrix:8,matur:[],max:[0,6,8],max_wealth:0,maximum:0,mean:[2,5,6,8],mechan:5,mediat:7,medium:5,meet:2,member:[2,4,5],membership:8,membran:7,mena:[],mentor:2,merg:[3,6],mesa:[1,8],metabol:7,metal:7,methanol:8,method:[0,2,3,6,8],metric:0,microbi:9,microscop:4,microsoft:[2,6],mid:8,midterm:[],min:[6,8],miniconda3:[],miniconda:1,minim:1,minor:2,minut:2,mixtur:7,mkl:8,mode:3,model:[2,7,8,9],model_datafram:[],model_df:0,model_report:0,moder:7,modern:4,modeul:[],modifi:1,modul:[0,3,6],molecul:7,moneyag:0,moneymodel:0,moor:0,more:[3,4,5,8],most:[2,4,5,6,8],move:[0,9],move_ag:0,movement:7,much:7,mulitpl:8,multi:[2,8],multigrid:0,multipl:[0,1,8],multistep:7,multitud:[],must:8,myenv:1,name:[1,2,4,5,6,8],nameerror:[],natur:[4,5,8],nbin:8,ndarrai:8,nearest:[],need:[2,5,7,8],neighbor:[],neuron:7,neurotransmitt:7,never:8,new_posit:0,newli:[],newtonian:5,nielsen:9,non:[0,8],none:8,nonliv:7,nontrivi:5,nonzero:0,normal:[7,8],note:8,notebook:[1,5,8],now:1,num:5,num_ag:0,number:[0,1,4,8],number_el:5,numer:[4,6,8],numpi:[1,3,5,8],object:[5,6],observ:7,obtain:[2,5],obviou:4,obvious:8,occupi:7,occur:[0,7],och:9,odeint:5,offer:8,offic:2,omnipres:7,onc:7,one:[0,1,2,3,5,8],one_agent_wealth:[],one_agent_wealth_df:0,onedr:2,ones:[5,8],onli:[1,5,7,8],onlinelibrari:[],open:[1,8],openmp:8,oper:[],opportun:[5,9],opt:[],optim:8,option:8,orbit:5,order:[0,5,8],ordinari:2,org:9,organ:[0,3,7],orient:5,oscil:5,other:[0,1,3,7,8],our:[0,5,7],out:[7,8],outcom:0,outlier:8,output:[],outsid:2,over:[5,8],overal:[0,7],overemphas:8,overleaf:2,ovolut:[],packag:1,page:2,panda:[0,8],paragraph:3,paramet:[0,4,5,8],parametr:5,parasit:7,part:2,partial:5,particip:2,particl:[5,7],particular:3,pass:[5,6,8],past:[3,9],patch:8,patches0:8,patches1:8,path_to_fil:6,pdf:[2,8],peer:2,per:[2,8],perform:[5,6,8],period:[5,7],permalink:9,permeas:7,person:2,phase:5,phenomena:[2,4,7],phenomenolog:4,phenylmethanol:8,pip:1,place_ag:0,plai:5,platform:8,plot:3,plot_upd:5,plt:[0,3,5,6,8],plu:8,png:8,point:[2,5,6,8],polygon:8,popul:[0,4,5],portabl:2,pos:0,posit:[0,3,5],possibl:[7,8],possible_step:0,postsynapt:7,potenti:[7,8],power:[4,6],powershel:1,ppm:5,practic:[2,5,8],predat:[4,5],predatorpreymodel:5,predeifin:8,predict:4,prei:[4,5],preliminari:2,present:[2,5,8],press:3,presynapt:7,primo:9,principl:2,print:[0,6,8],probabl:8,problem:[7,8],process:[4,7],processor:8,product:[7,8],prog:9,program:[2,3,5],project:[2,8],projektarbet:[7,9],projektledn:9,promin:5,promot:4,prompt:1,propag:5,properti:[5,8],propog:5,proport:5,protein:7,prototyp:8,provid:[3,4,5,7,8],pseudo:8,py3dmol:[],pydoc:[],pyplot:[0,3,5,6,8],python3:[],python:[0,1,2,3,5,9],qquad:5,quad:5,question:7,quicker:7,quit:5,r_0:4,rais:8,rand:8,randint:[],random:[0,7,8],randomactiv:0,randomli:[0,2],randrang:0,rang:[0,2,5,8],rate:[5,7],rather:8,ration:2,raw:8,raw_input:[],reach:7,reaction:7,read:[6,8],read_excel:6,readabl:[3,8],readi:1,readili:[3,8],readthrough:7,real:7,recent:4,recommend:[1,8],record:[0,2,4],reduc:5,refer:[1,2,4,5,7,8],reflect:2,regener:7,region:[],regul:7,regular:0,reilli:9,rel:8,relat:[5,7],releas:7,relev:8,remain:[0,8],rememb:3,repeat:[],replac:5,report:2,repositori:1,repres:[4,5,8],reproduc:8,reproduct:4,request:[],requir:[0,5,7,8],resent:[],reshap:[6,8],respect:[0,4,5],result:[3,5,6,8],retain:7,retriev:1,reveal:[5,8],revers:8,review:[2,4,7],rice:8,rich:2,right:8,righthand:8,risk:4,rk4:5,role:[2,5],ronald:9,routin:8,row:0,rule:[4,7],run:[1,3,5],rung:[],rwidth:8,sai:6,same:[0,8],satur:7,save:[3,5,8],savefig:8,scalar:[5,8],scale:[4,8],scenario:[],schedul:0,scheme:5,schwenck:[7,9],scienc:[5,8],scientif:1,scipi:[1,5,8],scott:8,script:8,search:8,sec:5,second:[2,5,8,9],section:[0,3],see:[2,4,8],seed:8,seemingli:4,seen:5,select:[2,6,7],self:[0,2,5,8],semant:8,sens:[2,7],separ:[2,7,8],separatp:6,seper:3,sequenc:[0,8],sergio:9,seri:0,serv:[5,7],server:0,set:[2,4,5,8],set_data:5,set_text:5,set_ydata:[],setp:[0,3,5,6,8],sever:[2,6,8],sh09:[2,7,9],shall:5,shape:8,share:[2,8],sheet1:6,sheet:[2,6],sheet_nam:6,shift:[3,8],shonkwil:[2,7,9],shorter:8,should:[1,2,5,8],show:[0,3,5,6,8],side:8,sight:5,sigma:8,signal:7,significantli:8,similar:7,simpl:8,simplest:7,simul:4,sin:[3,5],singl:[0,4,8],sit:7,site:[],size:[],skill:[2,7],skillset:7,slide:2,slower:8,slowli:7,small:1,smaller:[5,8],snd:[],soft:7,softwar:[5,8],solid:5,solubl:7,solut:[2,8],solv:5,some:5,someon:8,somethign:[],sort:[0,6],sort_valu:6,sourc:[1,7,8],space:[0,5,7,8],spam:[],span:7,speci:[],specif:[0,7,8],specifi:[4,8],split:3,spread:4,spreadsheet:[],spring:5,springer:9,sqrt:8,stabil:5,stabl:[5,8],stack:8,standard:[6,8],start:[0,1,3,8],stastic:6,state:[5,8],statement:[0,1,8],std:[6,8],stdin:[],stdinnotimplementederror:[],steadi:[],step:[0,5,8],step_idx:0,stepfil:8,stochast:4,stone:8,store:[5,8],str:8,straighforward:5,straightforward:5,strategi:8,strength:4,strike:[],string:8,strongli:8,struck:[],structur:0,student:[2,6,7,9],studentlitteratur:9,studi:[5,7],sturg:8,substrat:7,suggest:3,suit:2,sum:[0,7,8],sum_:0,summar:4,summari:[],summer:[],superior:5,suppli:[],support:[1,8],symbol:[],synapt:7,syntax:8,syntaxerror:[],sys:[],system:[0,1,4,5,7],t_0:5,t_insid:5,t_outsid:5,tab:3,tail:0,take:[2,5,7,8],target:2,task:8,team:[2,8],technic:2,teknik:9,temperatur:[5,7],tempt:8,tend:7,term:[5,8],termin:1,test:8,text:[5,8],than:[5,7,8],thei:[1,5,7],them:[0,2,7],themselv:0,thereaft:5,therefor:2,thermal:5,thi:[0,1,2,3,5,6,7],thick:5,think:7,third:5,those:[4,6,7],thought:6,thread:8,three:[0,2,3,7],thu:[2,5,7],time:[0,5,7,8],time_text:5,tissu:7,titl:[0,2,3,5,7,8],tn_cdi_springer_books_10_1007_978_0_387_70984_0:9,togeth:[5,8],tool:[0,2,6,8],top:8,topic:7,topolog:4,total:[0,8],tour:[8,9],toward:[2,8,9],traceback:[],track:[4,7],tradit:8,train:[2,7],transform:[5,7],transmembran:7,transmiss:7,transport:7,transpos:8,treat:[7,8],treatment:7,tree:4,triangl:8,trigger:7,trivial:5,tupl:8,turn:[3,5],turnov:7,tutori:[],twinx:5,two:[0,2,4,5,8],tyical:8,type:[3,7],typic:[1,4,5,7,8],uncatalyz:7,under:8,underli:[6,8],understand:[0,2],unequ:8,unfil:8,uniqu:3,unique_id:0,unit:0,unless:8,updat:5,upload:2,upon:2,upper:8,uptak:7,url:9,use:[0,2,3,4,5,7,8],used:[0,2,5,7,8],useful:1,user:[2,5,8],uses:8,using:[0,2,3,6,8],usual:[5,8],util:[],vai:5,valu:[0,5,6,8],valuabl:7,van16:[8,9],vanderpla:[8,9],vanderplas2016:[],variabl:5,variat:5,variou:[4,7],vast:8,vector:8,veloc:5,veloxchem:[],veri:[2,5,7],versatil:2,version:[1,2],vertic:8,via:[3,8],viru:7,visual:[0,8],vlxenv:[],volterra:[4,5],w3school:8,wai:[6,8],walk:0,water:7,wave:[],weak:4,wealth:0,web:[1,3,8],websit:1,weight:8,welcom:2,well:[2,7],what:0,when:[5,8],where:[0,4,5,8],whether:7,which:[0,1,2,4,5,7,8],whirlwind:[8,9],whirlwindtourofpython:9,whose:[],wide:[2,5],widespread:2,width:[0,8],wilei:[],window:[1,8],wise:[],without:[],word:[0,8],work:[1,2,4,5,6,8],world:[],would:[6,8],wrangl:6,write:5,written:[1,3,4,5,7,8],www:9,x_i:0,xlabel:[0,3,5,8],xlim:[0,3,5,8],xls:6,xqxvp53d2831kfb6dsx_zg5w0000gp:[],xtick:0,xticklabel:6,y0_l:5,y_1:5,y_2:5,year:2,yet:2,yield:8,ylabel:[0,3,5,6,8],ylim:[0,3,5,8],you:[1,2,3,6,7,8],your:[0,1,2,3,6,7,8],ytick:0,zero:[5,8],zlib:1},titles:["Agent-based modeling","Software installation","Introduction","Jupyter notebook","Mathematical modeling","Differential equations","Pandas","Project work","Python for this course","References"],titleterms:{"400px":[],"class":8,"function":8,"import":8,ODE:5,ODEs:5,agent:0,align:[],anaconda:[],analys:6,analysi:5,anim:5,arrai:8,auto:3,autocomplet:[],base:0,bonu:5,book:[],build:[],cell:3,center:[],code:3,collect:0,commun:2,complet:3,condit:8,content:2,cours:8,creat:6,data:[0,6,8],datafram:6,deliver:2,dictionari:6,differ:5,differenti:5,document:8,edit:[],enabl:[],environ:[],equaiton:[],equat:5,essenti:3,euler:5,exampl:3,explicit:5,fdm:5,fig:[],figur:8,finit:5,form:5,from:6,gener:[],good:[],heat:5,help:8,implicit:5,instal:1,interact:[],introduct:2,iter:8,jupyt:3,keyboard:3,kutta:5,librari:5,line:[],manipul:6,markdown:[],materi:5,mathemat:4,mesa:0,method:5,mode:[],model:[0,4,5],modul:8,motiv:8,name:[],necess:8,normal:[],notebook:3,numer:5,object:8,oper:8,ordinari:5,organ:2,orient:8,overview:[],panda:6,plot:[0,5,6,8],practic:[],program:8,project:7,propos:7,python:[6,8],refer:9,result:0,run:0,rung:5,set:[],shortcut:3,simul:0,softwar:1,solut:5,solver:5,some:8,specif:[],spreadsheet:6,stabil:[],store:0,structur:[],system:[],text:3,thi:8,through:5,tip:3,transfer:5,type:8,unnecess:[],view:[],wall:5,well:[],width:[],work:7}})

diff --git a/docs/agent.html b/docs/agent.html
@@ -479,19 +479,19 @@ N + 1 - \frac{2}{X} \sum_{i=1}^N (N+1-i) x_i
     </tr>
     <tr>
       <th>1</th>
-      <td>0.2952</td>
+      <td>0.2824</td>
     </tr>
     <tr>
       <th>2</th>
-      <td>0.4728</td>
+      <td>0.4224</td>
     </tr>
     <tr>
       <th>3</th>
-      <td>0.5448</td>
+      <td>0.4928</td>
     </tr>
     <tr>
       <th>4</th>
-      <td>0.5656</td>
+      <td>0.5512</td>
     </tr>
   </tbody>
 </table>
@@ -535,7 +535,7 @@ N + 1 - \frac{2}{X} \sum_{i=1}^N (N+1-i) x_i
     <tr>
       <th rowspan="4" valign="top">99</th>
       <th>46</th>
-      <td>3</td>
+      <td>1</td>
     </tr>
     <tr>
       <th>47</th>
@@ -543,7 +543,7 @@ N + 1 - \frac{2}{X} \sum_{i=1}^N (N+1-i) x_i
     </tr>
     <tr>
       <th>48</th>
-      <td>0</td>
+      <td>1</td>
     </tr>
     <tr>
       <th>49</th>
@@ -568,10 +568,10 @@ Step AgentID
      3             1
      4             1
 ...              ...
-99   45            0
-     46            3
+99   45            1
+     46            1
      47            0
-     48            0
+     48            1
      49            1
 
 [5000 rows x 1 columns]
@@ -634,8 +634,8 @@ Step AgentID
 </div>
 </div>
 <div class="cell_output docutils container">
-<div class="output stream highlight-myst-ansi notranslate"><div class="highlight"><pre><span></span>Agent: 8
-Step: 55
+<div class="output stream highlight-myst-ansi notranslate"><div class="highlight"><pre><span></span>Agent: 26
+Step: 96
 </pre></div>
 </div>
 </div>

diff --git a/docs/jupyter.html b/docs/jupyter.html
@@ -53,7 +53,7 @@
     <script type="text/x-mathjax-config">MathJax.Hub.Config({"tex2jax": {"inlineMath": [["\\(", "\\)"]], "displayMath": [["\\[", "\\]"]], "processRefs": false, "processEnvironments": false}})</script>
     <link rel="index" title="Index" href="../genindex.html" />
     <link rel="search" title="Search" href="../search.html" />
-    <link rel="next" title="Mathematical modeling" href="math.html" />
+    <link rel="next" title="Pandas" href="pandas.html" />
     <link rel="prev" title="Software installation" href="installation.html" />
     <meta name="viewport" content="width=device-width, initial-scale=1" />
     <meta name="docsearch:language" content="en" />
@@ -115,6 +115,11 @@
    <li class="toctree-l2 current active">
     <a class="current reference internal" href="#">
      Jupyter notebook
+    </a>
+   </li>
+   <li class="toctree-l2">
+    <a class="reference internal" href="pandas.html">
+     Pandas
     </a>
    </li>
   </ul>
@@ -426,7 +431,7 @@ and <a class="reference external" href="https://matplotlib.org/">Matplotlib</a> 
         <div class='prev-next-bottom'>
             
     <a class='left-prev' id="prev-link" href="installation.html" title="previous page">Software installation</a>
-    <a class='right-next' id="next-link" href="math.html" title="next page">Mathematical modeling</a>
+    <a class='right-next' id="next-link" href="pandas.html" title="next page">Pandas</a>
 
         </div>
         

diff --git a/docs/python.html b/docs/python.html
@@ -586,10 +586,10 @@ Identity matrix:
 </div>
 </div>
 <div class="cell_output docutils container">
-<div class="output stream highlight-myst-ansi notranslate"><div class="highlight"><pre><span></span>  matmul:     1.3440 (ms)
+<div class="output stream highlight-myst-ansi notranslate"><div class="highlight"><pre><span></span>  matmul:     2.7149 (ms)
 </pre></div>
 </div>
-<div class="output stream highlight-myst-ansi notranslate"><div class="highlight"><pre><span></span>for loop:   512.8641 (ms)
+<div class="output stream highlight-myst-ansi notranslate"><div class="highlight"><pre><span></span>for loop:   505.8129 (ms)
 </pre></div>
 </div>
 </div>

diff --git a/docs/pandas.html b/docs/pandas.html
@@ -533,7 +533,7 @@ Name: Result, dtype: float64
 </div>
 </div>
 <div class="cell_output docutils container">
-<img alt="../_images/pandas_14_0.png" src="../_images/pandas_14_0.png" />
+<img alt="../_images/pandas_13_0.png" src="../_images/pandas_13_0.png" />
 </div>
 </div>
 </div>

diff --git a/docs/ode.html b/docs/ode.html
@@ -117,6 +117,11 @@
      Jupyter notebook
     </a>
    </li>
+   <li class="toctree-l2">
+    <a class="reference internal" href="pandas.html">
+     Pandas
+    </a>
+   </li>
   </ul>
  </li>
  <li class="toctree-l1 current active has-children">

diff --git a/docs/installation.html b/docs/installation.html
@@ -115,6 +115,11 @@
      Jupyter notebook
     </a>
    </li>
+   <li class="toctree-l2">
+    <a class="reference internal" href="pandas.html">
+     Pandas
+    </a>
+   </li>
   </ul>
  </li>
  <li class="toctree-l1 has-children">

diff --git a/docs/project.html b/docs/project.html
@@ -115,6 +115,11 @@
      Jupyter notebook
     </a>
    </li>
+   <li class="toctree-l2">
+    <a class="reference internal" href="pandas.html">
+     Pandas
+    </a>
+   </li>
   </ul>
  </li>
  <li class="toctree-l1 has-children">

diff --git a/docs/references.html b/docs/references.html
@@ -114,6 +114,11 @@
      Jupyter notebook
     </a>
    </li>
+   <li class="toctree-l2">
+    <a class="reference internal" href="pandas.html">
+     Pandas
+    </a>
+   </li>
   </ul>
  </li>
  <li class="toctree-l1 has-children">
